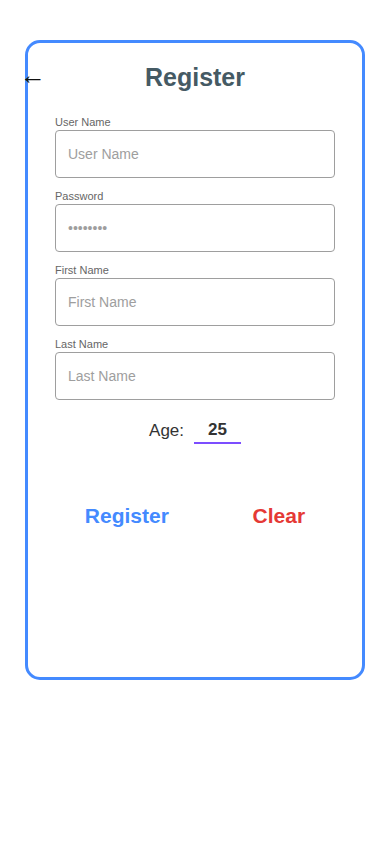
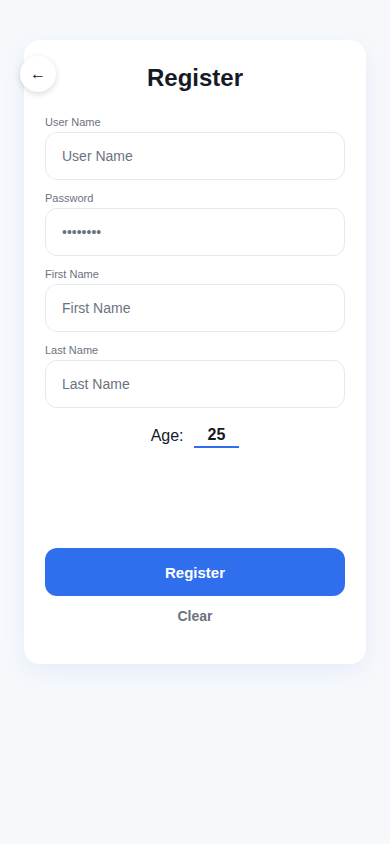
Update README and mockups for the new design system
Finish syncing the README/mockups with the UI redesign merged just
before this: document the shared AppColors/AppTheme design system
(Tech Stack section + project structure tree, English and Thai), and
regenerate the 3 mockups (register, booking time-slot dialog, my
booking) that were still showing the old mismatched colors. Also fixed
the "3-minute tour" step describing the search screen — the redesign
made the clinic list appear immediately instead of behind a tap on a
large search icon, so the tour text was already stale.

Claude-Session: https://claude.ai/code/session_01X5b4Eoub9FBoKGATScpbMN

diff --git a/README.md b/README.md
@@ -90,7 +90,7 @@ You can also just register a brand-new account from the login screen instead of 
 
 1. **Log in** with `admin` / `admin` (or register a new account).
 2. **Dashboard** — your member tier/points badge is tappable and shows your progress to the next tier; below that, your upcoming appointment, previously-booked clinics, and current promotions.
-3. Tap **"Clinic Near You"** → grant location access (or don't — it falls back to a default map center either way) → tap the search icon to see the clinic list, sorted by real distance from you.
+3. Tap **"Clinic Near You"** → grant location access (or don't — it falls back to a default map center either way) → the clinic list is right there, sorted by real distance from you.
 4. Tap a clinic → **"Check Booking"** → pick a date (today up to 60 days ahead) → pick a time slot. Slots someone else already booked at that clinic show as unavailable.
 5. Confirm the booking, then open **"My Booking"** from the dashboard — tap a date on the calendar to see that day's bookings, and tap the red ✕ to cancel one (with a confirmation prompt first).
 6. Back on the dashboard, notice the tier badge and "Previous clinic" list updated — they refresh whenever you come back from booking or cancelling something.
@@ -166,6 +166,10 @@ The booking flow has real constraints behind it, not just a form that always suc
 
 State management is plain `StatefulWidget` + `setState` throughout — no Provider/Riverpod/Bloc/GetX. For an app this size (a handful of screens, no cross-cutting shared state beyond "who's logged in," which is just passed down as a constructor argument) that's a deliberate, appropriately-sized choice rather than a gap.
 
+### Design system
+
+Every screen shares one small design system defined in `lib/theme/app_theme.dart` — `AppColors` (a trustworthy blue primary, a teal accent for positive/distance signals, a soft neutral page background so white cards read as distinct surfaces) and an `AppTheme.theme` wired into `MaterialApp`. Screens used to each pick their own color (a green dashboard header, a blue banner, teal clinic-detail text, an orange CTA, a red divider — no relationship between any of them); they now all pull from the same palette, and primary actions (Login, Register, Check Booking) are real filled buttons instead of colored text.
+
 ---
 
 ## 🏛 Architecture
@@ -214,6 +218,8 @@ healthcare_map/
     │   │   ├── distance.dart         # haversine distance calc
     │   │   ├── findevent.dart        # "nearest upcoming booking" query
     │   │   └── loyalty.dart          # tier/points calculation
+    │   ├── theme/
+    │   │   └── app_theme.dart        # AppColors + AppTheme — the app's one shared design system
     │   ├── widget/
     │   │   └── skeleton_loader.dart  # loading placeholders (used instead of bare spinners)
     │   └── feature/                  # one folder per screen
@@ -301,7 +307,7 @@ flutter run
 
 1. **ล็อกอิน** ด้วย `admin` / `admin` (หรือสมัครใหม่)
 2. **Dashboard** — ป้าย tier/แต้มสะสมกดได้ กดแล้วเห็นว่าต้องจองอีกกี่ครั้งถึงจะขึ้น tier ถัดไป ด้านล่างมีนัดหมายที่จะถึง, คลินิกที่เคยจอง, และโปรโมชั่นปัจจุบัน
-3. กด **"Clinic Near You"** → อนุญาตตำแหน่ง (หรือไม่อนุญาตก็ได้ แอปจะ fallback ไปจุดกลางเริ่มต้น) → กดไอคอนค้นหาเพื่อดูรายชื่อคลินิกเรียงตามระยะทางจริง
+3. กด **"Clinic Near You"** → อนุญาตตำแหน่ง (หรือไม่อนุญาตก็ได้ แอปจะ fallback ไปจุดกลางเริ่มต้น) → เห็นรายชื่อคลินิกเรียงตามระยะทางจริงทันที ไม่ต้องกดอะไรเพิ่ม
 4. แตะคลินิก → **"Check Booking"** → เลือกวันที่ (วันนี้ถึงล่วงหน้า 60 วัน) → เลือกช่วงเวลา ช่วงที่คนอื่นจองไปแล้วที่คลินิกนั้นจะขึ้นไม่ว่าง
 5. ยืนยันการจอง แล้วเปิด **"My Booking"** จาก dashboard — แตะวันบนปฏิทินเพื่อดูการจองวันนั้น แตะ ✕ สีแดงเพื่อยกเลิก (มี dialog ยืนยันก่อนเสมอ)
 6. กลับมาที่ dashboard จะเห็นป้าย tier กับ "Previous clinic" อัปเดตให้เอง — รีเฟรชทุกครั้งที่กลับมาจากหน้าจอง/ยกเลิก
@@ -328,6 +334,8 @@ flutter run
 ## 🛠 เทคโนโลยีที่ใช้
 
 ดูตารางเต็มในส่วนภาษาอังกฤษด้านบน — สรุปสั้นๆ: **Flutter** + **sqflite** (backend ทั้งหมด) + **google_maps_flutter** + **location** (GPS) + **table_calendar** + **intl** ไม่มี state management library ภายนอก ใช้ `StatefulWidget`/`setState` ธรรมดา ซึ่งเหมาะสมกับขนาดแอปนี้ (ไม่กี่หน้าจอ ไม่มี shared state ข้าม feature ที่ซับซ้อน)
+
+**Design system**: ทุกหน้าจอใช้ธีมสีเดียวกันจาก `lib/theme/app_theme.dart` (`AppColors` + `AppTheme`) — น้ำเงินเป็นสีหลัก (ความน่าเชื่อถือ, เหมาะกับแอปสุขภาพ), เขียวมิ้นท์เป็น accent (ระยะทาง/สัญญาณเชิงบวก), พื้นหลังเทาอ่อนให้การ์ดขาวเด่น เดิมแต่ละหน้าจอเลือกสีเอง (header เขียว, banner น้ำเงิน, ตัวอักษร clinic detail เขียว, ปุ่มส้ม, เส้นแบ่งแดง — ไม่มีความสัมพันธ์กันเลย) ตอนนี้ทุกที่ดึงจากพาเลตต์เดียวกัน และปุ่มหลัก (Login, Register, Check Booking) เป็นปุ่มจริงแทนข้อความสี
 
 ## ⚠ ข้อจำกัดที่รู้อยู่แล้ว / สิ่งที่ทำต่อได้
 
